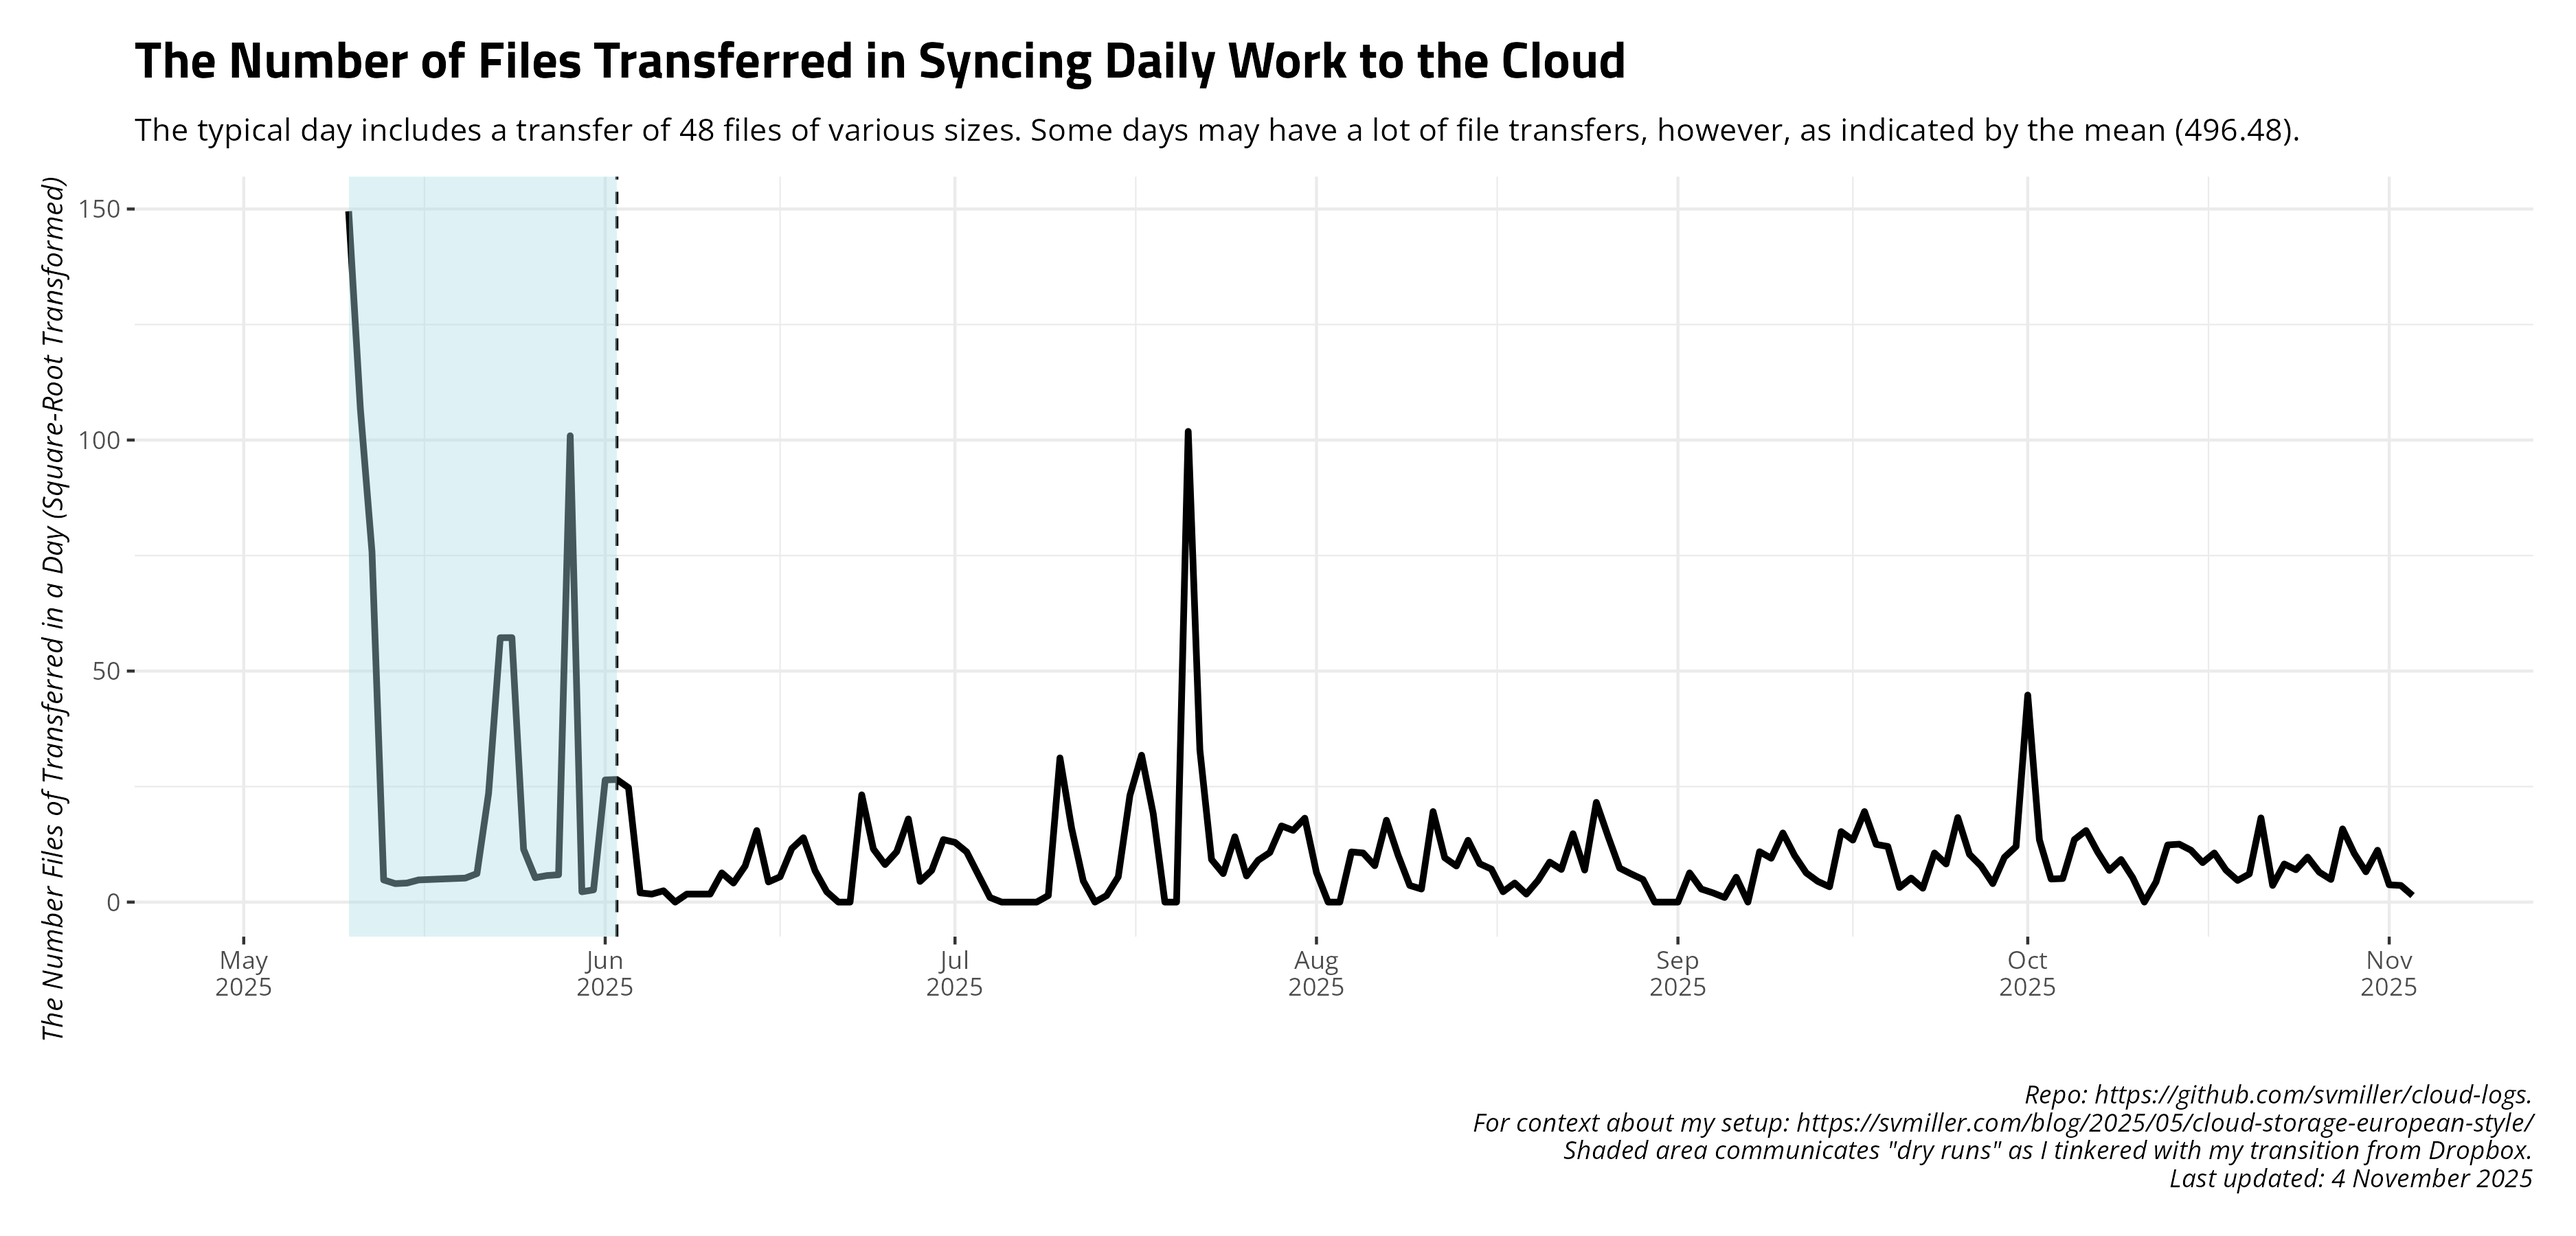
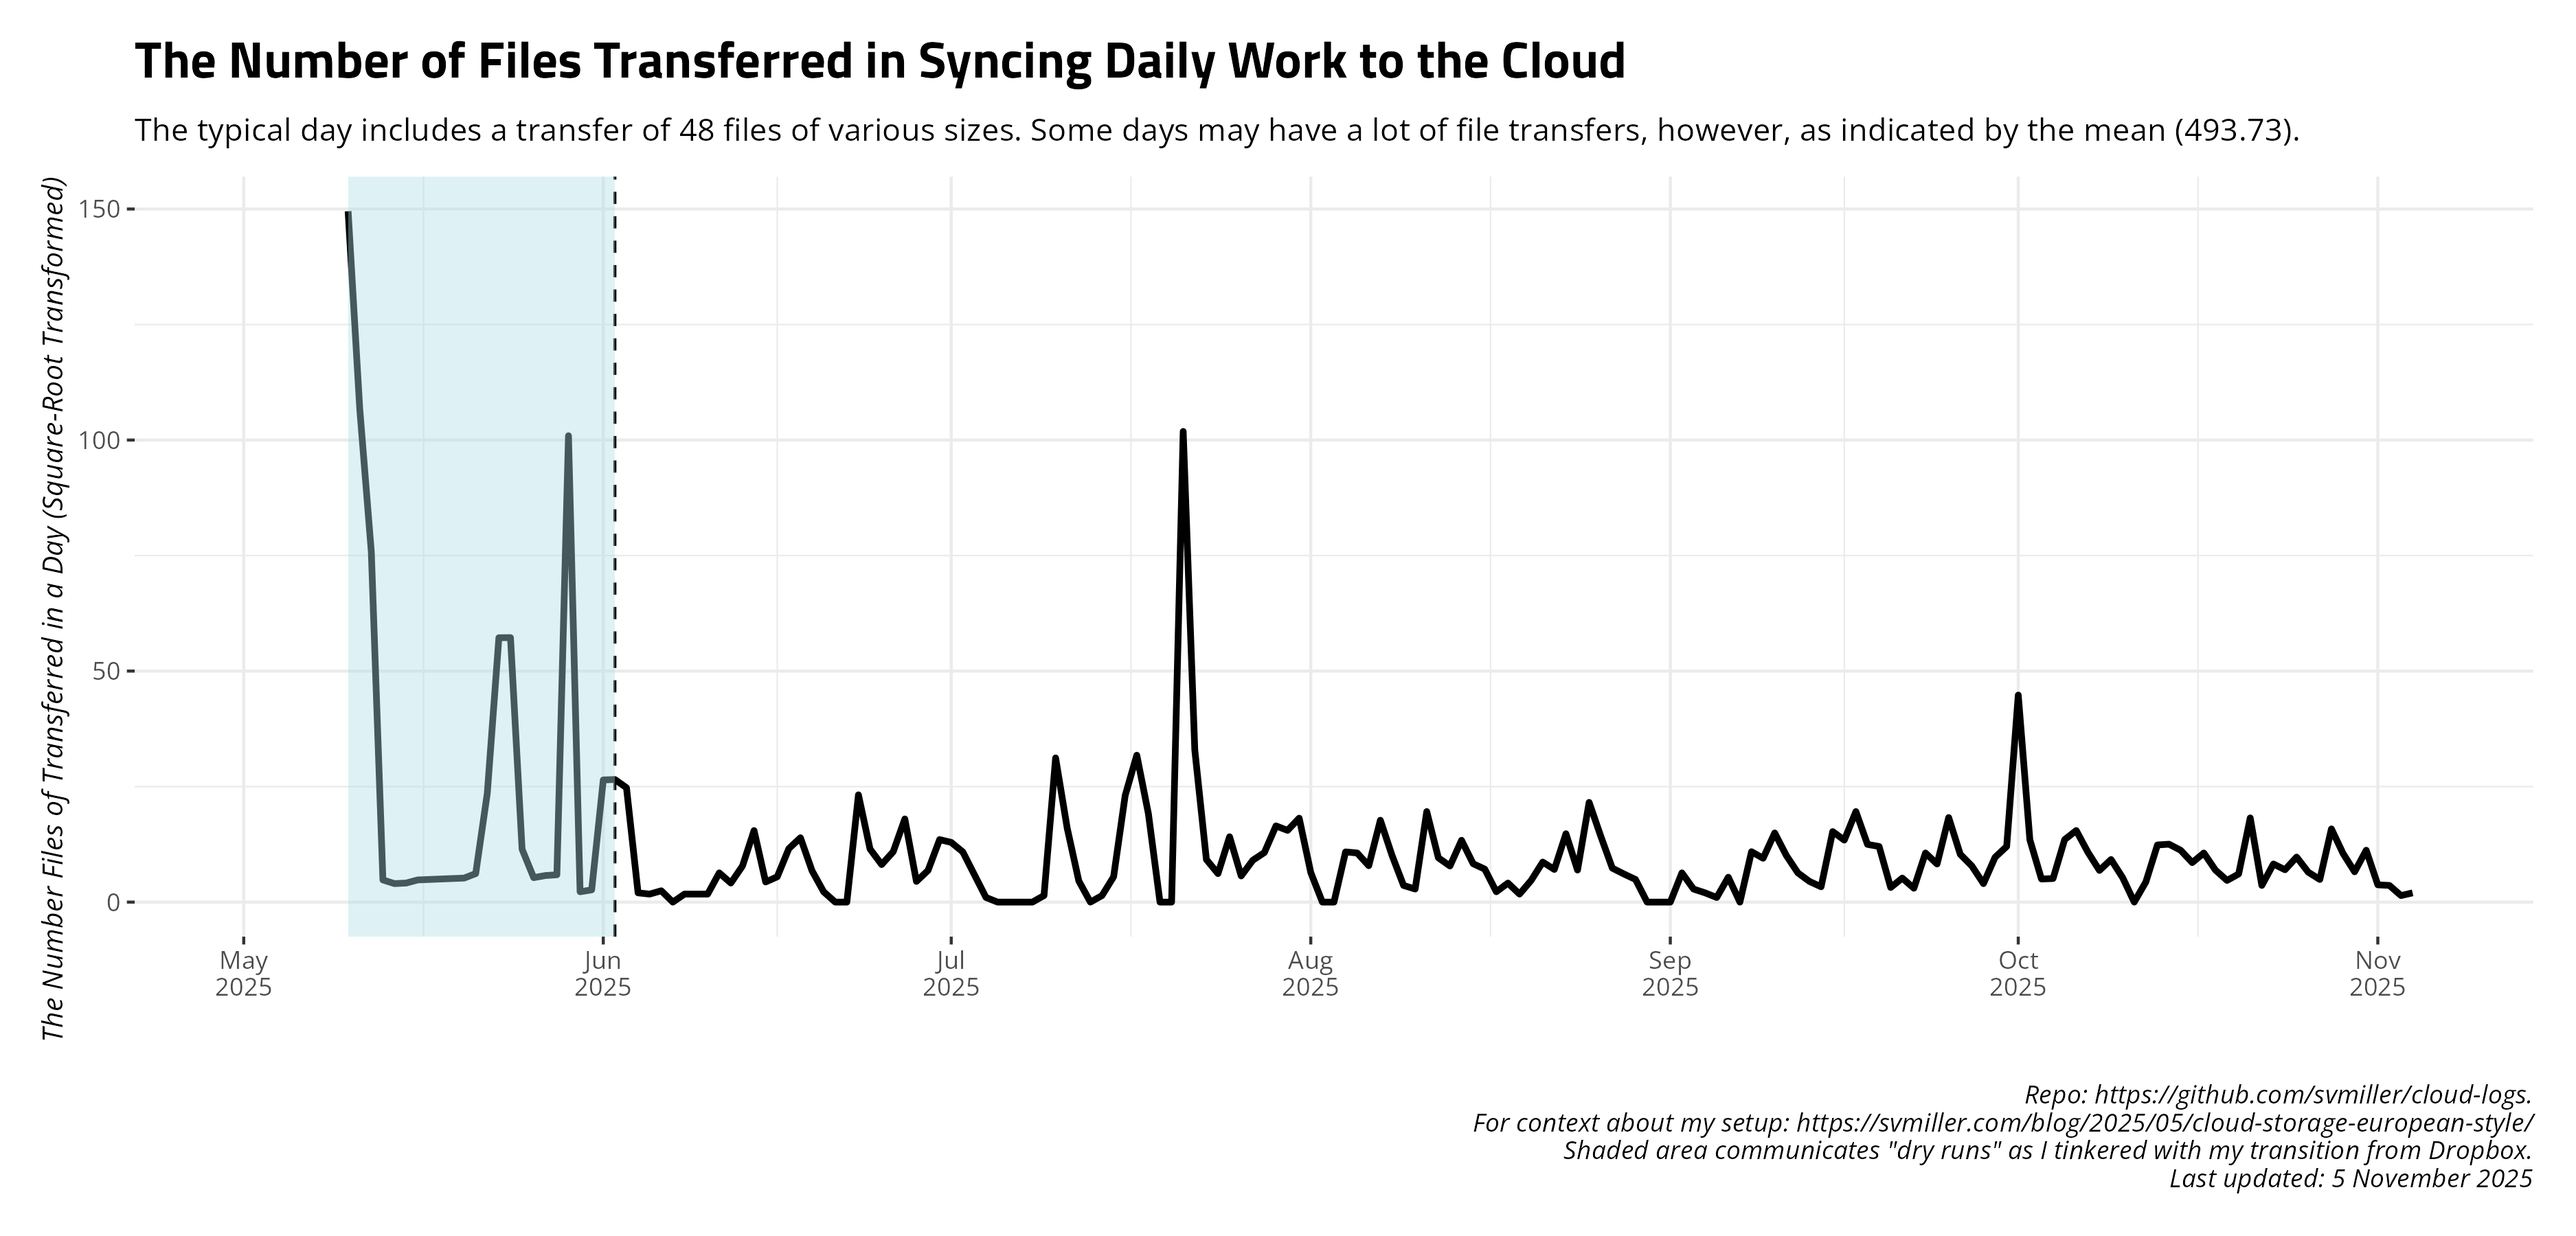
Date: 2025-11-05 09:00:17. Hi mom!

diff --git a/README.md b/README.md
@@ -27,17 +27,17 @@ and uploads to Github.
     #> # A tibble: 14 × 4
     #>    date       ftransfer stransfer   elapsed
     #>    <date>         <dbl> <chr>       <chr>  
-    #>  1 2025-10-21       332 55.643 MiB  4m15.2s
-    #>  2 2025-10-22        13 1.903 MiB   4m51.0s
-    #>  3 2025-10-23        68 2.442 MiB   4m13.7s
-    #>  4 2025-10-24        49 714.508 KiB 4m48.5s
-    #>  5 2025-10-25        95 6.259 MiB   4m40.1s
-    #>  6 2025-10-26        42 393.283 KiB 4m0.4s 
-    #>  7 2025-10-27        24 143.556 KiB 4m39.8s
-    #>  8 2025-10-28       251 13.888 MiB  4m11.7s
-    #>  9 2025-10-29       111 8.451 MiB   4m24.0s
-    #> 10 2025-10-30        43 515.287 KiB 4m33.3s
-    #> 11 2025-10-31       126 3.302 MiB   4m16.2s
-    #> 12 2025-11-01        14 30.743 KiB  4m51.2s
-    #> 13 2025-11-02        13 58.646 KiB  4m46.9s
-    #> 14 2025-11-03         2 7.941 KiB   4m58.0s
+    #>  1 2025-10-22        13 1.903 MiB   4m51.0s
+    #>  2 2025-10-23        68 2.442 MiB   4m13.7s
+    #>  3 2025-10-24        49 714.508 KiB 4m48.5s
+    #>  4 2025-10-25        95 6.259 MiB   4m40.1s
+    #>  5 2025-10-26        42 393.283 KiB 4m0.4s 
+    #>  6 2025-10-27        24 143.556 KiB 4m39.8s
+    #>  7 2025-10-28       251 13.888 MiB  4m11.7s
+    #>  8 2025-10-29       111 8.451 MiB   4m24.0s
+    #>  9 2025-10-30        43 515.287 KiB 4m33.3s
+    #> 10 2025-10-31       126 3.302 MiB   4m16.2s
+    #> 11 2025-11-01        14 30.743 KiB  4m51.2s
+    #> 12 2025-11-02        13 58.646 KiB  4m46.9s
+    #> 13 2025-11-03         2 7.941 KiB   4m58.0s
+    #> 14 2025-11-04         4 5.939 MiB   4m54.7s
